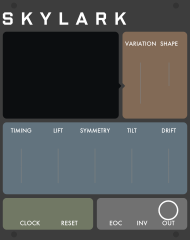
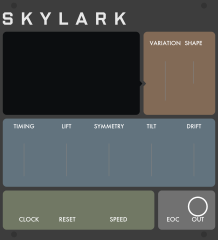
Skylark: add SPEED buttons and trigger jacks, remove INV, move to the 23 HP panel

diff --git a/src/Skylark.cpp b/src/Skylark.cpp
@@ -1,5 +1,6 @@
 #include "plugin.hpp"
 #include "ShapeGenerator.hpp"
+#include "shapes/CycleSpeed.hpp"
 #include "shapes/OutputStage.hpp"
 #include "shapes/Recipes.hpp"
 #include "shapes/SkylarkEngine.hpp"
@@ -10,7 +11,8 @@
 
 // Skylark: a shape modulator. Each cycle (one bar) plays a structured shape
 // (a bounce, a ratchet, a fractal line...) that Variation sweeps through its
-// family of forms, reshaped by Timing, Lift, Symmetry, Tilt and Drift.
+// family of forms, reshaped by Timing, Lift, Symmetry, Tilt and Drift. SPEED
+// runs the cycle at 1/4x to 4x the bar.
 
 static constexpr int kTracePoints = 256;
 
@@ -20,6 +22,8 @@ struct SkylarkFrame {
 	int shape = 0;
 	float variation = 0.5f;
 	float bpm = 120.f;
+	int speed = 0;  // SPEED in octaves, running and chosen
+	int speedTarget = 0;
 };
 
 // What the audio thread hands the display: the engine is copied each
@@ -31,6 +35,8 @@ struct SkylarkSnapshot {
 	shapes::Range range = shapes::Range::Bipolar5;
 	float variation = 0.5f;
 	float bpm = 120.f;
+	int speed = 0;
+	int speedTarget = 0;
 };
 
 static void buildFrame(SkylarkFrame& f, const SkylarkSnapshot& s) {
@@ -41,6 +47,8 @@ static void buildFrame(SkylarkFrame& f, const SkylarkSnapshot& s) {
 	f.shape = s.engine.activeShape();
 	f.variation = s.variation;
 	f.bpm = s.bpm;
+	f.speed = s.speed;
+	f.speedTarget = s.speedTarget;
 }
 
 struct Skylark : Module {
@@ -62,6 +70,9 @@ struct Skylark : Module {
 		DRIFT_CV_PARAM,
 		BPM_PARAM,
 		RESET_PARAM,
+		SPEED_DOWN_PARAM,
+		SPEED_UP_PARAM,
+		SPEED_RESET_PARAM,
 		PARAMS_LEN
 	};
 	enum InputId {
@@ -74,11 +85,14 @@ struct Skylark : Module {
 		DRIFT_INPUT,
 		CLOCK_INPUT,
 		RESET_INPUT,
+		SPEED_DOWN_INPUT,
+		SPEED_UP_INPUT,
 		INPUTS_LEN
 	};
 	enum OutputId {
 		MAIN_OUTPUT,
-		INV_OUTPUT,
+		// INV was removed; the slot keeps EOC's id for old patches
+		UNUSED_INV_OUTPUT,
 		EOC_OUTPUT,
 		OUTPUTS_LEN
 	};
@@ -94,10 +108,12 @@ struct Skylark : Module {
 	int heldShape = 0;
 
 	shapes::Timebase timebase;
+	shapes::CycleSpeed speed;
 	shapes::SkylarkEngine engine;
 	shapes::Slew slew;
 	shapes::Trigger eoc;
-	dsp::BooleanTrigger prevTrigger, nextTrigger;
+	dsp::BooleanTrigger prevTrigger, nextTrigger, speedDownTrigger, speedUpTrigger, speedResetTrigger;
+	dsp::SchmittTrigger speedDownCv, speedUpCv;
 	float sampleRate = 48000.f;
 	float appliedSlewMs = -1.f;
 	// OUT on the previous sample: Variation's feedback when its jack is empty
@@ -142,6 +158,9 @@ struct Skylark : Module {
 		configParam(DRIFT_CV_PARAM, -1.f, 1.f, 0.f, "Drift CV amount");
 		shapeui::configBpm(this, BPM_PARAM);
 		configButton(RESET_PARAM, "Reset");
+		configButton(SPEED_DOWN_PARAM, "Half speed");
+		configButton(SPEED_UP_PARAM, "Double speed");
+		configButton(SPEED_RESET_PARAM, "Speed x1");
 		configInput(VARIATION_INPUT, "Variation CV (OUT when unpatched)");
 		configInput(SHAPE_INPUT, "Shape CV");
 		configInput(TIMING_INPUT, "Timing CV");
@@ -151,8 +170,9 @@ struct Skylark : Module {
 		configInput(DRIFT_INPUT, "Drift CV");
 		configInput(CLOCK_INPUT, "Clock");
 		configInput(RESET_INPUT, "Reset");
+		configInput(SPEED_DOWN_INPUT, "Half speed trigger");
+		configInput(SPEED_UP_INPUT, "Double speed trigger");
 		configOutput(MAIN_OUTPUT, "Main");
-		configOutput(INV_OUTPUT, "Inverted");
 		configOutput(EOC_OUTPUT, "End of cycle");
 #ifdef METAMODULE
 		// Two build or scan steps an evaluation: doing them all at once was a
@@ -174,6 +194,7 @@ struct Skylark : Module {
 
 	void onReset(const ResetEvent& e) override {
 		Module::onReset(e);
+		speed.jumpTo(0);
 		settings.reset();
 		variationPerCycle = false;
 		shapeAtCycleEnd = false;
@@ -203,39 +224,52 @@ struct Skylark : Module {
 		tin.resetButton = params[RESET_PARAM].getValue() > 0.5f;
 		tin.pulsesPerCycle = settings.pulsesPerCycle;
 		shapes::Timebase::Step step = timebase.process(tin);
+		// From here on a cycle is SPEED's
+		shapes::CycleSpeed::Step sped = speed.process(step.cycle, step.pos, step.reset, step.wrapped);
 		// Reset starts a cycle too
-		bool cycleStart = step.wrapped || step.reset || !started;
+		bool cycleStart = sped.wrapped || step.reset || !started;
 		started = true;
 
 		// A cycle start is worked out on its own sample, so a shape or
 		// Variation held for it lands there
 		if (cycleStart || --untilEval <= 0) {
 			untilEval = shapes::kControlInterval;
-			evaluate(step, cycleStart);
+			evaluate(sped.t, cycleStart);
 		}
 
 		double volts = slew.process(ramp.next());
 		float out = (float) shapes::sanitize(volts, 0.0);
 		lastOut = out;
 		outputs[MAIN_OUTPUT].setVoltage(out);
-		outputs[INV_OUTPUT].setVoltage((float) shapes::sanitize(shapes::invertVolts(out, settings.range), 0.0));
-		if (step.wrapped)
+		if (sped.wrapped)
 			eoc.fire();
 		outputs[EOC_OUTPUT].setVoltage(eoc.process(args.sampleTime));
 
-		displayPos.store((float) step.pos, std::memory_order_relaxed);
+		displayPos.store((float) (sped.t - std::floor(sped.t)), std::memory_order_relaxed);
 		if (++sincePublish >= shapeui::kPublishInterval) {
 			sincePublish = 0;
 			publish(evalVariation);
 		}
 	}
 
-	// The controls and the shape, at control rate: sets OUT's next ramp
-	void evaluate(const shapes::Timebase::Step& step, bool cycleStart) {
+	// The controls and the shape, at control rate, at t cycles since reset:
+	// sets OUT's next ramp
+	void evaluate(double t, bool cycleStart) {
 		if (prevTrigger.process(params[SHAPE_PREV_PARAM].getValue() > 0.5f))
 			stepShape(-1);
 		if (nextTrigger.process(params[SHAPE_NEXT_PARAM].getValue() > 0.5f))
 			stepShape(1);
+		// SPEED's jacks do what their buttons do
+		bool down = speedDownTrigger.process(params[SPEED_DOWN_PARAM].getValue() > 0.5f);
+		down |= speedDownCv.process(cv(SPEED_DOWN_INPUT), 0.1f, 1.f);
+		bool up = speedUpTrigger.process(params[SPEED_UP_PARAM].getValue() > 0.5f);
+		up |= speedUpCv.process(cv(SPEED_UP_INPUT), 0.1f, 1.f);
+		if (down)
+			speed.setTarget(speed.targetOctaves() - 1);
+		if (up)
+			speed.setTarget(speed.targetOctaves() + 1);
+		if (speedResetTrigger.process(params[SPEED_RESET_PARAM].getValue() > 0.5f))
+			speed.setTarget(0);
 		if (settings.slewMs != appliedSlewMs) {
 			slew.set(settings.slewMs, sampleRate);
 			appliedSlewMs = settings.slewMs;
@@ -264,7 +298,8 @@ struct Skylark : Module {
 		engine.setControls(c);
 		evalVariation = c.variation;
 
-		double raw = engine.raw(step.pos, step.cycle);
+		double cycle = std::floor(t);
+		double raw = engine.raw(t - cycle, (int64_t) cycle);
 		double y = shapes::treat(raw, settings.treatMode, engine.peak());
 		// The peak is rescanned now and then while the transforms apply at
 		// every evaluation, so Fit can briefly overshoot: keep it in range
@@ -287,6 +322,8 @@ struct Skylark : Module {
 		s.range = settings.range;
 		s.variation = (float) variation;
 		s.bpm = (float) timebase.tempoBpm();
+		s.speed = speed.octaves();
+		s.speedTarget = speed.targetOctaves();
 		frontSnapshot.store(back, std::memory_order_release);
 		publishCount.fetch_add(1, std::memory_order_release);
 	}
@@ -296,6 +333,7 @@ struct Skylark : Module {
 		settings.toJson(rootJ);
 		json_object_set_new(rootJ, "variationPerCycle", json_boolean(variationPerCycle));
 		json_object_set_new(rootJ, "shapeAtCycleEnd", json_boolean(shapeAtCycleEnd));
+		json_object_set_new(rootJ, "speed", json_integer(speed.targetOctaves()));
 		return rootJ;
 	}
 
@@ -305,11 +343,14 @@ struct Skylark : Module {
 		variationPerCycle = j && json_is_true(j);
 		j = json_object_get(rootJ, "shapeAtCycleEnd");
 		shapeAtCycleEnd = j && json_is_true(j);
+		j = json_object_get(rootJ, "speed");
+		speed.jumpTo(j && json_is_integer(j) ? (int) json_integer_value(j) : 0);
 	}
 };
 
 // One cycle of the shaped output (after range and treatment, before slew),
-// with a playhead and a header naming the shape, Variation and tempo.
+// with a playhead and a header naming the shape, Variation and tempo, with
+// SPEED beside it.
 struct SkylarkDisplay : shapeui::Screen {
 	Skylark* module = nullptr;
 	// The module browser's picture: Bounce at default settings, built once
@@ -369,8 +410,17 @@ struct SkylarkDisplay : shapeui::Screen {
 			nvgText(vg, gx, mm2px(4.6f), title, nullptr);
 			nvgTextAlign(vg, NVG_ALIGN_RIGHT | NVG_ALIGN_BASELINE);
 			shapeui::fontSize(vg, mm2px(2.2f));
+			float end = gx + gw;
+			// SPEED, away from x1: the chosen one, dim until it takes over
+			if (f.speed != 0 || f.speedTarget != 0) {
+				const char* label = shapes::CycleSpeed::label(f.speedTarget);
+				nvgFillColor(vg, shapeui::screenColor(f.speed == f.speedTarget ? shapeui::inkColor() : shapeui::dividerColor()));
+				nvgText(vg, end, mm2px(4.6f), label, nullptr);
+				// Share Tech Mono advances 0.54 em; one space between
+				end -= mm2px((strlen(label) + 1) * 0.54f * 2.2f);
+			}
 			nvgFillColor(vg, shapeui::screenColor(shapeui::mutedColor()));
-			nvgText(vg, gx + gw, mm2px(4.6f), right, nullptr);
+			nvgText(vg, end, mm2px(4.6f), right, nullptr);
 		}
 
 		shapeui::TraceStyle style;
@@ -397,41 +447,46 @@ struct SkylarkWidget : ModuleWidget {
 		addChild(createWidget<ScrewBlack>(Vec(box.size.x - 2 * RACK_GRID_WIDTH, RACK_GRID_HEIGHT - RACK_GRID_WIDTH)));
 
 		SkylarkDisplay* display = createWidget<SkylarkDisplay>(mm2px(Vec(1.5, 17.0)));
-		display->box.size = mm2px(Vec(62.0, 46.5));
+		display->box.size = mm2px(Vec(73.43, 44.5));
 		display->module = module;
 		addChild(display);
 
-		addParam(createParamCentered<RoundBlackKnob>(mm2px(Vec(75.225, 33.5)), module, Skylark::VARIATION_PARAM));
-		addParam(createParamCentered<RoundBlackSnapKnob>(mm2px(Vec(90.375, 33.5)), module, Skylark::SHAPE_PARAM));
-		addInput(createInputCentered<PJ301MPort>(mm2px(Vec(75.225, 46)), module, Skylark::VARIATION_INPUT));
-		addInput(createInputCentered<PJ301MPort>(mm2px(Vec(90.375, 46)), module, Skylark::SHAPE_INPUT));
-		addParam(createParamCentered<Trimpot>(mm2px(Vec(75.225, 55.5)), module, Skylark::VARIATION_CV_PARAM));
-		addParam(createParamCentered<TL1105>(mm2px(Vec(87.075, 55.5)), module, Skylark::SHAPE_PREV_PARAM));
-		addParam(createParamCentered<TL1105>(mm2px(Vec(93.675, 55.5)), module, Skylark::SHAPE_NEXT_PARAM));
+		addParam(createParamCentered<RoundBlackKnob>(mm2px(Vec(88.56, 32.791)), module, Skylark::VARIATION_PARAM));
+		addParam(createParamCentered<RoundBlackSnapKnob>(mm2px(Vec(103.71, 32.791)), module, Skylark::SHAPE_PARAM));
+		addInput(createInputCentered<PJ301MPort>(mm2px(Vec(88.56, 44.753)), module, Skylark::VARIATION_INPUT));
+		addInput(createInputCentered<PJ301MPort>(mm2px(Vec(103.71, 44.753)), module, Skylark::SHAPE_INPUT));
+		addParam(createParamCentered<Trimpot>(mm2px(Vec(88.56, 53.844)), module, Skylark::VARIATION_CV_PARAM));
+		addParam(createParamCentered<TL1105>(mm2px(Vec(100.41, 53.844)), module, Skylark::SHAPE_PREV_PARAM));
+		addParam(createParamCentered<TL1105>(mm2px(Vec(107.01, 53.844)), module, Skylark::SHAPE_NEXT_PARAM));
 
-		addParam(createParamCentered<RoundBlackKnob>(mm2px(Vec(11.36, 79.6)), module, Skylark::TIMING_PARAM));
-		addParam(createParamCentered<RoundBlackKnob>(mm2px(Vec(31.08, 79.6)), module, Skylark::LIFT_PARAM));
-		addParam(createParamCentered<RoundBlackKnob>(mm2px(Vec(50.8, 79.6)), module, Skylark::SYMMETRY_PARAM));
-		addParam(createParamCentered<RoundBlackKnob>(mm2px(Vec(70.52, 79.6)), module, Skylark::TILT_PARAM));
-		addParam(createParamCentered<RoundBlackKnob>(mm2px(Vec(90.24, 79.6)), module, Skylark::DRIFT_PARAM));
-		addParam(createParamCentered<Trimpot>(mm2px(Vec(11.36, 89)), module, Skylark::TIMING_CV_PARAM));
-		addParam(createParamCentered<Trimpot>(mm2px(Vec(31.08, 89)), module, Skylark::LIFT_CV_PARAM));
-		addParam(createParamCentered<Trimpot>(mm2px(Vec(50.8, 89)), module, Skylark::SYMMETRY_CV_PARAM));
-		addParam(createParamCentered<Trimpot>(mm2px(Vec(70.52, 89)), module, Skylark::TILT_CV_PARAM));
-		addParam(createParamCentered<Trimpot>(mm2px(Vec(90.24, 89)), module, Skylark::DRIFT_CV_PARAM));
-		addInput(createInputCentered<PJ301MPort>(mm2px(Vec(11.36, 98)), module, Skylark::TIMING_INPUT));
-		addInput(createInputCentered<PJ301MPort>(mm2px(Vec(31.08, 98)), module, Skylark::LIFT_INPUT));
-		addInput(createInputCentered<PJ301MPort>(mm2px(Vec(50.8, 98)), module, Skylark::SYMMETRY_INPUT));
-		addInput(createInputCentered<PJ301MPort>(mm2px(Vec(70.52, 98)), module, Skylark::TILT_INPUT));
-		addInput(createInputCentered<PJ301MPort>(mm2px(Vec(90.24, 98)), module, Skylark::DRIFT_INPUT));
+		addParam(createParamCentered<RoundBlackKnob>(mm2px(Vec(12.884, 76.868)), module, Skylark::TIMING_PARAM));
+		addParam(createParamCentered<RoundBlackKnob>(mm2px(Vec(35.652, 76.868)), module, Skylark::LIFT_PARAM));
+		addParam(createParamCentered<RoundBlackKnob>(mm2px(Vec(58.42, 76.868)), module, Skylark::SYMMETRY_PARAM));
+		addParam(createParamCentered<RoundBlackKnob>(mm2px(Vec(81.188, 76.868)), module, Skylark::TILT_PARAM));
+		addParam(createParamCentered<RoundBlackKnob>(mm2px(Vec(103.956, 76.868)), module, Skylark::DRIFT_PARAM));
+		addParam(createParamCentered<Trimpot>(mm2px(Vec(12.884, 85.779)), module, Skylark::TIMING_CV_PARAM));
+		addParam(createParamCentered<Trimpot>(mm2px(Vec(35.652, 85.779)), module, Skylark::LIFT_CV_PARAM));
+		addParam(createParamCentered<Trimpot>(mm2px(Vec(58.42, 85.779)), module, Skylark::SYMMETRY_CV_PARAM));
+		addParam(createParamCentered<Trimpot>(mm2px(Vec(81.188, 85.779)), module, Skylark::TILT_CV_PARAM));
+		addParam(createParamCentered<Trimpot>(mm2px(Vec(103.956, 85.779)), module, Skylark::DRIFT_CV_PARAM));
+		addInput(createInputCentered<PJ301MPort>(mm2px(Vec(12.884, 94.312)), module, Skylark::TIMING_INPUT));
+		addInput(createInputCentered<PJ301MPort>(mm2px(Vec(35.652, 94.312)), module, Skylark::LIFT_INPUT));
+		addInput(createInputCentered<PJ301MPort>(mm2px(Vec(58.42, 94.312)), module, Skylark::SYMMETRY_INPUT));
+		addInput(createInputCentered<PJ301MPort>(mm2px(Vec(81.188, 94.312)), module, Skylark::TILT_INPUT));
+		addInput(createInputCentered<PJ301MPort>(mm2px(Vec(103.956, 94.312)), module, Skylark::DRIFT_INPUT));
 
-		addParam(createParamCentered<RoundBlackKnob>(mm2px(Vec(10.78, 112.6)), module, Skylark::BPM_PARAM));
-		addInput(createInputCentered<PJ301MPort>(mm2px(Vec(21.28, 112.6)), module, Skylark::CLOCK_INPUT));
-		addParam(createParamCentered<VCVButton>(mm2px(Vec(32.83, 112.6)), module, Skylark::RESET_PARAM));
-		addInput(createInputCentered<PJ301MPort>(mm2px(Vec(41.33, 112.6)), module, Skylark::RESET_INPUT));
-		addOutput(createOutputCentered<PJ301MPort>(mm2px(Vec(61.865, 112.6)), module, Skylark::EOC_OUTPUT));
-		addOutput(createOutputCentered<PJ301MPort>(mm2px(Vec(75.945, 112.6)), module, Skylark::INV_OUTPUT));
-		addOutput(createOutputCentered<PJ301MPort>(mm2px(Vec(90.025, 112.6)), module, Skylark::MAIN_OUTPUT));
+		addParam(createParamCentered<RoundBlackKnob>(mm2px(Vec(10.261, 110.6)), module, Skylark::BPM_PARAM));
+		addInput(createInputCentered<PJ301MPort>(mm2px(Vec(20.761, 110.6)), module, Skylark::CLOCK_INPUT));
+		addParam(createParamCentered<VCVButton>(mm2px(Vec(31.788, 110.6)), module, Skylark::RESET_PARAM));
+		addInput(createInputCentered<PJ301MPort>(mm2px(Vec(40.288, 110.6)), module, Skylark::RESET_INPUT));
+		// SPEED: plain buttons, read in process() like the shape buttons, over their trigger jacks
+		addParam(createParamCentered<TL1105>(mm2px(Vec(54.814, 107.692)), module, Skylark::SPEED_DOWN_PARAM));
+		addParam(createParamCentered<VCVButton>(mm2px(Vec(63.514, 107.692)), module, Skylark::SPEED_RESET_PARAM));
+		addParam(createParamCentered<TL1105>(mm2px(Vec(72.214, 107.692)), module, Skylark::SPEED_UP_PARAM));
+		addInput(createInputCentered<PJ301MPort>(mm2px(Vec(53.514, 115.892)), module, Skylark::SPEED_DOWN_INPUT));
+		addInput(createInputCentered<PJ301MPort>(mm2px(Vec(73.514, 115.892)), module, Skylark::SPEED_UP_INPUT));
+		addOutput(createOutputCentered<PJ301MPort>(mm2px(Vec(92.702, 110.6)), module, Skylark::EOC_OUTPUT));
+		addOutput(createOutputCentered<PJ301MPort>(mm2px(Vec(106.029, 110.6)), module, Skylark::MAIN_OUTPUT));
 	}
 
 	void appendContextMenu(Menu* menu) override {
